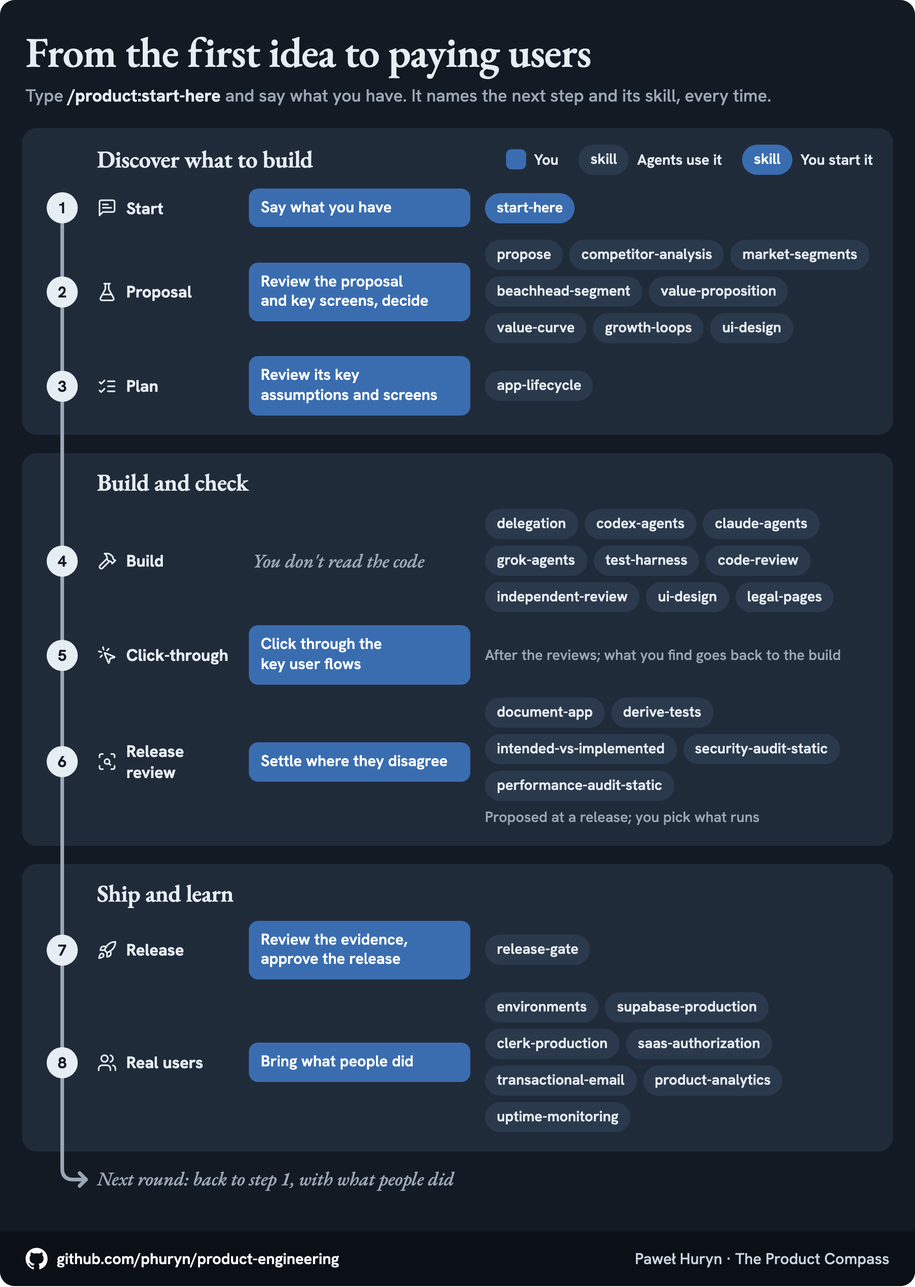
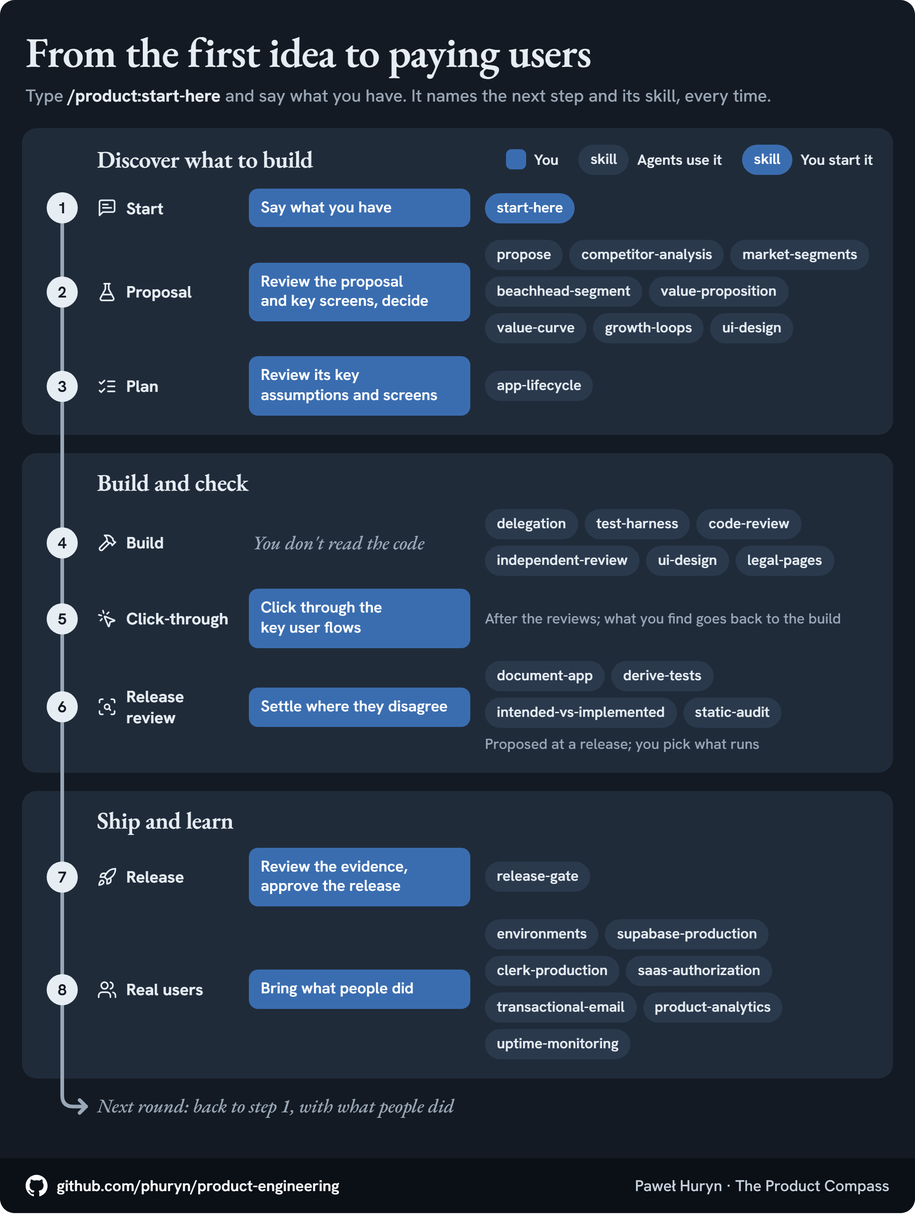
Name the merged skills' new homes everywhere; counts, costs and the graphic
README, WALKTHROUGH, AGENTS.md and the marketplace name delegation's
references, mcp-server's ChatGPT plugin reference and static-audit; the
counts move to 41 skills, 37 of them loading on their own. The listing's
cost is measured again: 2,538 tokens a turn in Claude Code, from 2,836
(the same prompt headless with and without the packs, two runs each).
The lifecycle graphic shows delegation and static-audit. sources.json points
the retired skills' records at their new homes. The validator now fails on
a retired name anywhere a reader follows one (receipts keep history).

diff --git a/tools/validate.py b/tools/validate.py
@@ -296,6 +296,26 @@ def check_counts():
                     errors.append(f"{rel}:{n}: says {m.group(1) or m.group(2)} skills; the collection has {want}{kind}")
 
 
+RETIRED = ("codex-agents", "claude-agents", "grok-agents", "gemini-agents", "chatgpt-plugin",
+           "security-audit-static", "performance-audit-static")
+
+
+def check_retired():
+    """A skill merged into another is named by its new home, never its old name (2026-11-26: seven skills
+    became references of `delegation`, `mcp-server` and `static-audit`). Receipts keep their history."""
+    old = re.compile(r"\b(" + "|".join(RETIRED) + r")\b(?!\.md)")
+    places = [*ROOT.glob("*/skills/**/*"), *ROOT.glob("*/README.md"), *ROOT.glob("*/.claude-plugin/plugin.json"),
+              *(ROOT / f for f in ("README.md", "AGENTS.md", "WALKTHROUGH.md", "CASE-STUDIES.md",
+                                   ".claude-plugin/marketplace.json"))]
+    for p in places:
+        if not p.is_file() or p.name == "receipts.md" or p.suffix not in (".md", ".py", ".json", ".yaml", ".yml"):
+            continue
+        for n, line in enumerate(p.read_text(encoding="utf-8").splitlines(), 1):
+            if m := old.search(line):
+                errors.append(f"{p.relative_to(ROOT).as_posix()}:{n}: names {m.group(1)!r}, a skill that was merged "
+                              "into another; name its new home (AGENTS.md, rule 4)")
+
+
 def check_tree():
     for p in ROOT.rglob("*"):
         if ".git" in p.parts:
@@ -419,6 +439,7 @@ def main():
     check_plugins()
     listed = check_listing()
     check_counts()
+    check_retired()
     check_tree()
     check_copies()
     check_plan_prompt_copies()

diff --git a/README.md b/README.md
@@ -4,7 +4,7 @@
 
 # Product Engineering
 
-47 agent skills from shipping three live products: decide what to build, build it with Claude Code or Codex, have a second model review it, release it.
+41 agent skills from shipping three live products: decide what to build, build it with Claude Code or Codex, have a second model review it, release it.
 
 **Lost at any point?** Type `/product:start-here` (Codex: `$product:start-here`) and say what you have. It tells you where the work stands and what's next. [Install](#install) first.
 
@@ -97,7 +97,7 @@ Or copy skill folders by hand into the folder your agent reads (`.agents/skills/
 
 <picture>
   <source media="(prefers-color-scheme: dark)" srcset="assets/lifecycle-dark.png">
-  <img src="assets/lifecycle-light.png" width="800" alt="The process in eight steps, in three phases (discover what to build, build and check, ship and learn), with what you do at each step and the skills agents use there. 1 Start: you say what you have; start-here, which you start. 2 Proposal: you review the proposal and its key screens, and decide; propose, competitor-analysis, market-segments, beachhead-segment, value-proposition, value-curve, growth-loops, ui-design. 3 Plan: you review its key assumptions and screens; app-lifecycle. 4 Build: you don't read the code; delegation, codex-agents, claude-agents, grok-agents, test-harness, code-review, independent-review, ui-design, legal-pages. 5 Click-through: after the reviews, you click through the key user flows; what you find goes back to the build. 6 Release review: you settle where they disagree; proposed at a release, you pick what runs; document-app, derive-tests, intended-vs-implemented, security-audit-static, performance-audit-static. 7 Release: you review the evidence and approve the release; release-gate. 8 Real users: you bring what people did; environments, supabase-production, clerk-production, saas-authorization, transactional-email, product-analytics, uptime-monitoring. Then the next round goes back to step 1.">
+  <img src="assets/lifecycle-light.png" width="800" alt="The process in eight steps, in three phases (discover what to build, build and check, ship and learn), with what you do at each step and the skills agents use there. 1 Start: you say what you have; start-here, which you start. 2 Proposal: you review the proposal and its key screens, and decide; propose, competitor-analysis, market-segments, beachhead-segment, value-proposition, value-curve, growth-loops, ui-design. 3 Plan: you review its key assumptions and screens; app-lifecycle. 4 Build: you don't read the code; delegation, test-harness, code-review, independent-review, ui-design, legal-pages. 5 Click-through: after the reviews, you click through the key user flows; what you find goes back to the build. 6 Release review: you settle where they disagree; proposed at a release, you pick what runs; document-app, derive-tests, intended-vs-implemented, static-audit. 7 Release: you review the evidence and approve the release; release-gate. 8 Real users: you bring what people did; environments, supabase-production, clerk-production, saas-authorization, transactional-email, product-analytics, uptime-monitoring. Then the next round goes back to step 1.">
 </picture>
 
 A change you can check in a minute skips to step 4. Each step with an example, from the first prompt to the next round: [WALKTHROUGH.md](WALKTHROUGH.md).
@@ -110,9 +110,9 @@ A change you can check in a minute skips to step 4. Each step with an example, f
 | **1. Start** | Say what you have: an idea, evidence from users, an agreed change, a bug or a release. | Read the request and the repository, and name the next step. | `start-here` |
 | **2. Proposal** | Look at the key screens first. Then read the research, make the open decisions, and accept or say what to change. | Research what you didn't share: the alternatives people use and, while it's open, the segment. Propose a direction with every claim's source, in one artifact: the jobs map, a high-fidelity screen per key job on sample data, and the open decisions, each with a recommendation. | `propose`, with `competitor-analysis`, `market-segments`, `beachhead-segment`, `value-proposition`, `value-curve`, `growth-loops`; `ui-design` for the screens |
 | **3. Plan**, complex changes only | Review its key assumptions (how it read your ask, where it disagrees with you, what it needs you to decide) and, when screens change, the new screens and choices in the artifact. Question the ones that look wrong, and say "build it". | Open with the key assumptions, then plan whatever the build needs: phases and releases, a rough size in builder hours, the files and modules to change, how to test it, the acceptance criteria. Screens that change and choices left open go in the artifact. | `start-here` carries the prompt; `app-lifecycle` for a SaaS |
-| **4. Build** | Pick when a stage offers options, such as a design direction. When the app needs accounts, keys or a domain, set them up as the agent walks you through: keys go where the agent asks, never into the chat, and production's only when it asks for them. You don't review the code line by line. | One session coordinates and another builds; no session reviews its own work. Tests and docs land with the change, and every fix with a test that failed before it. A fresh reviewer that never saw the build reviews each completed phase and every push that deploys, and again after fixing what a round found, until the bar holds. Use the reviewer your instructions name. By default the wrapper starts a fresh session with the first installed of Codex, Claude Code and Grok. Before the first stranger is asked for anything, the legal pages are drafted from the code for you to approve. | `delegation`, `codex-agents`, `claude-agents`, `grok-agents`, `test-harness`, `code-review`, `independent-review`, `ui-design`, `legal-pages` |
+| **4. Build** | Pick when a stage offers options, such as a design direction. When the app needs accounts, keys or a domain, set them up as the agent walks you through: keys go where the agent asks, never into the chat, and production's only when it asks for them. You don't review the code line by line. | One session coordinates and another builds; no session reviews its own work. Tests and docs land with the change, and every fix with a test that failed before it. A fresh reviewer that never saw the build reviews each completed phase and every push that deploys, and again after fixing what a round found, until the bar holds. Use the reviewer your instructions name. By default the wrapper starts a fresh session with the first installed of Codex, Claude Code and Grok. Before the first stranger is asked for anything, the legal pages are drafted from the code for you to approve. | `delegation` (with Codex, Claude Code and Grok as partners), `test-harness`, `code-review`, `independent-review`, `ui-design`, `legal-pages` |
 | **5. Click-through** | After the phase checks, click through the key user flows on a link. Allow 15 to 20 minutes for a mid-size app. You can ask for an early preview, and the agent suggests stopping to use the product once it does its key job. | After phase close and any closing deploy, send a link, actions and expected results. Use rendered checks for routine screen changes. Run the full visual checks for new or materially changed journeys and kit changes. Record unbuilt work and turn feedback into stages of the phase in flight. The next phase can start while you try the preview. | `start-here`, `release-gate` § Stage and phase close, `ui-design` |
-| **6. Release review** | Pick which deeper checks run, and decide where a doc, the coverage map and the code disagree, because a doc rewritten to match faulty code blesses the bug. | Before a release, propose the deeper checks: the docs and the legal pages against the code, the coverage map, security and performance. Run the ones you pick. | `document-app` and `derive-tests` in check mode; `intended-vs-implemented`, `security-audit-static`, `performance-audit-static` |
+| **6. Release review** | Pick which deeper checks run, and decide where a doc, the coverage map and the code disagree, because a doc rewritten to match faulty code blesses the bug. | Before a release, propose the deeper checks: the docs and the legal pages against the code, the coverage map, security and performance. Run the ones you pick. | `document-app` and `derive-tests` in check mode; `intended-vs-implemented`, `static-audit` |
 | **7. Release** | Check what the stage promised. Explore changed screens and shared surfaces, with a full sweep at go-live and for broad UI changes, then say go. Silence is not go. | Review everything unreleased again until a round finds nothing introduced above Low and nothing High or Critical of any age. Collect the evidence for every precondition, promote and verify that the reviewed build is serving. | `release-gate` |
 | **8. Real users** | Bring what people did: analytics, payments, support notes. | Run production: data, sign-in, payments, email, monitoring, and analytics that read back what people did without cookies. Weigh the new evidence against each hypothesis and propose the next round. | `product-analytics`, `environments`, `supabase-production`, `clerk-production`, `saas-authorization`, `transactional-email`, `uptime-monitoring`; `propose` |
 
@@ -144,16 +144,11 @@ Most start themselves when the work matches what they're for. You start four, ma
 - `test-harness`: Tests where green means something
 - `document-app`: System docs written from the code
 - `derive-tests`: The docs turned into a test-coverage map
-- `security-audit-static`: Security risks backed by evidence
-- `performance-audit-static`: N+1 queries, over-fetching, missing indexes
+- `static-audit`: Security risks backed by evidence; N+1 queries, over-fetching, missing indexes
 
 **agent-teams**: Other agents as partners
 
-- `delegation`: The brief, and what never delegates
-- `codex-agents`: Codex as a peer, builder or reviewer
-- `grok-agents`: Grok as a peer, builder or reviewer
-- `claude-agents`: Claude Code as a peer, builder or reviewer
-- `gemini-agents`: Gemini through Google's Antigravity CLI, only when you ask and agree first. Google doesn't support this on consumer plans (FAQ read 2026-11-13) and says it can lead to suspension
+- `delegation`: The brief, what never delegates, and Codex, Claude Code or Grok as a peer, builder or reviewer. Gemini, through Google's Antigravity CLI, only when you ask and agree first: Google doesn't support this on consumer plans (FAQ read 2026-11-13) and says it can lead to suspension
 
 **agent-harness**: A reliable agent setup, with you in the loop
 
@@ -176,8 +171,7 @@ Most start themselves when the work matches what they're for. You start four, ma
 - `legal-pages`: Terms, privacy policy and consent that match the code
 - `product-analytics`: Cookieless recordings and heatmaps your agents read back
 - `uptime-monitoring`: Knowing it's down before users do; Staygreen, made by the author, by default
-- `mcp-server`: A remote MCP server, right the first time
-- `chatgpt-plugin`: Through OpenAI's plugin review
+- `mcp-server`: A remote MCP server, right the first time, and a ChatGPT plugin through OpenAI's review
 - `embedded-agents-design`: What an agent in your app may do, and what waits for a click
 - `embedded-agents-messages-api`: Claude agents in your app, on the API
 - `embedded-agents-agent-sdk`: The same, on the Agent SDK
@@ -187,12 +181,12 @@ Most start themselves when the work matches what they're for. You start four, ma
 
 - `work-humanizer`: Edits AI-sounding text, or interviews you
 
-29 of the 47 skills were learned on real products built with Claude Code, Codex and Grok; 14 are established methods (the strategy frameworks in `product`, the documentation and review methods in `ai-shipping`); `product-analytics` rests on its vendors' docs and `work-humanizer` on a detector test; `gemini-agents` rests on one day of CLI runs and Google's documentation, and `embedded-agents-managed` on one day of live API runs and Anthropic's documentation. Each pack's `README.md` says more about every skill.
+25 of the 41 skills were learned on real products built with Claude Code, Codex and Grok; 13 are established methods (the strategy frameworks in `product`, the documentation and review methods in `ai-shipping`); `product-analytics` rests on its vendors' docs and `work-humanizer` on a detector test; `embedded-agents-managed` rests on one day of live API runs and Anthropic's documentation, and `delegation`'s Gemini reference on one day of CLI runs and Google's documentation. Each pack's `README.md` says more about every skill.
 
 <details>
 <summary>What the skills cost your agent</summary>
 
-Your agent always carries the descriptions of the 43 skills that start themselves: about 6,500 characters, about 2,800 tokens in Claude Code. A skill's full text loads only when it runs. `tools/validate.py` holds the descriptions to 6,600 characters in total and 300 each, because a crowded agent setup cuts descriptions short, and the cut falls on the words that say when to use a skill.
+Your agent always carries the descriptions of the 37 skills that start themselves: about 5,900 characters, about 2,500 tokens in Claude Code. A skill's full text loads only when it runs. `tools/validate.py` holds the descriptions to 6,600 characters in total and 300 each, because a crowded agent setup cuts descriptions short, and the cut falls on the words that say when to use a skill.
 
 </details>
 

diff --git a/WALKTHROUGH.md b/WALKTHROUGH.md
@@ -8,7 +8,7 @@ You don't need to remember any of this. `/product:start-here` names the next ste
 
 1. **Open your agent in a folder**: an empty one for a new idea (the agent runs `git init` there), or the repository of a product you already have.
 2. **Install the packs from that folder** ([Install](README.md#install)); in Claude Code the one-prompt install turns them on for that folder only; in Codex they install for your user, in every project. For this walkthrough: `product`, `ai-shipping`, `agent-teams` and `agent-harness`, plus `app-stack`: its `ui-design` and `uptime-monitoring` apply to any product with screens and a URL, and the rest mostly assumes a SaaS on Next.js, Supabase, Clerk and Netlify.
-3. **Optional, and worth it:** the Codex CLI as a second builder and peer (`codex-agents`) and the default reviewer (`independent-review`). The Grok CLI offers another model family (`--reviewer grok`), and `grok-agents` drives it in any role. Without Codex, the session you work in builds the change itself or briefs a Claude subagent. The review starts fresh with the first installed of Codex, Claude Code and Grok. With none of the three CLIs, use a fresh read-only session of your agent. The wrappers that drive them need Python 3.9 or later.
+3. **Optional, and worth it:** the Codex CLI as a second builder and peer (`delegation`, its Codex reference) and the default reviewer (`independent-review`). The Grok CLI offers another model family (`--reviewer grok`), and `delegation`'s Grok reference drives it in any role. Without Codex, the session you work in builds the change itself or briefs a Claude subagent. The review starts fresh with the first installed of Codex, Claude Code and Grok. With none of the three CLIs, use a fresh read-only session of your agent. The wrappers that drive them need Python 3.9 or later.
 
 ## 1. Say what you have
 
@@ -55,7 +55,7 @@ A stage that offers options stops until you pick, such as two design directions.
 
 By default, every stage lands end-to-end tests of its changed journeys. The coordinator runs touched and new tests, reads the diff and corrected docs, and briefly checks running screens. The read of the diff runs the router rows it matches; an edited test, gate script or instruction file needs its reason. Use phone and desktop widths and both themes when two exist; the builder never substitutes for this look. A stage needs no mandatory full gate, fresh review or docs check.
 
-One session coordinates. Another builds when one is available: Codex through `codex-agents`, or a Claude subagent briefed through `delegation`. No session reviews its own work. A fresh reviewer that never saw the build reviews each completed phase and every deploying push. It reviews again after each fix to what a round found, until the bar holds.
+One session coordinates. Another builds when one is available: Codex through `delegation`'s Codex reference, or a Claude subagent briefed through `delegation`. No session reviews its own work. A fresh reviewer that never saw the build reviews each completed phase and every deploying push. It reviews again after each fix to what a round found, until the bar holds.
 
 The coordinator chooses phases containing related stages, sized for a few hours of builder turns and one state you can try. Two to four usually fit a first version; the plan message gives the split, cadence and rough builder-hour estimate. For the SaaS stages, 0–3, 4–7 and 8–9 are a suggested grouping. Stage 3 keeps its sample-data click-through done-when; the first deploy closes the next phase, and go-live reviews the whole product.
 
@@ -87,7 +87,7 @@ Before a release, the agent proposes the deeper checks, and you pick what runs. 
 
 1. **Are the docs right?** Say "check our docs against the code": `document-app` in check mode, with `intended-vs-implemented` reading the docs and the legal pages as intent.
 2. **Are the tests right?** Say "is our coverage map current?": `derive-tests` in check mode.
-3. **Security and performance?** Say "audit this release": `security-audit-static` and `performance-audit-static`, on the release's changes.
+3. **Security and performance?** Say "audit this release for security and performance": `static-audit` runs both on the release's changes.
 
 The check modes and the audits only report. Where a doc, a test and the code disagree about what the product should do, you decide which one moves, because a doc rewritten to match faulty code blesses the bug. At the release, "ship it" also reviews everything unreleased again, round after round until one finds nothing introduced above low and nothing high or critical of any age. Older high and critical findings are fixed too.
 
@@ -154,7 +154,7 @@ A product in use plus new evidence means `propose` runs again. It adds each date
 
 A typical setup:
 - **Claude Code coordinates.**
-- **Codex builds** what is worth handing off (`codex-agents`). The test is size: if the brief would be nearly as long as the change, the coordinator writes the change itself.
+- **Codex builds** what is worth handing off (`delegation`, its Codex reference). The test is size: if the brief would be nearly as long as the change, the coordinator writes the change itself.
 - **A fresh Codex session reviews.** Apply `independent-review` for the brief, scope and fallbacks.
 
 The coordinator needs the skills, and so does a builder whose brief names one: install `app-stack` in Codex too, so a brief for screens or an MCP server names `$app-stack:ui-design` or `$app-stack:mcp-server`. The product keeps no copy of either. The reviewer starts without them on purpose. If you also work in Codex directly, install the other packs there too, since each agent reads skills from its own place. `agent-instructions` shows how to route to a skill from the product's agent instructions.

diff --git a/AGENTS.md b/AGENTS.md
@@ -46,7 +46,7 @@ Many skills began as copies or extractions from other repositories. `sources.jso
 ## Releasing
 
 - **The bar** (owner, `2026-10-29`; tightened `2026-11-05`: "no medium or high or we repeat the loop"): a release goes out once an independent review round finds no INTRODUCED finding of Medium or above and no High or Critical of any age (the `independent-review` skill's stopping rule); it then goes out without asking for a go (owner, `2026-11-07`: "Once you review, go live without my go"; until then each release waited for one). No release waits for the owner's go, now or later, and consulting the owner first is optional (owner, `2026-11-21`: "You have my permission to release without asking for my go now and in the future. Consulting me is optional. This is not an app, but a skills collection."). A release that adds or changes what the skills do is a minor version; one that only corrects them is a patch. README wording needs no round and no release (owner, `2026-11-03`). Static security and performance audits run only when the owner asks.
-- **Who builds:** a change of a few edits is written in-session. Anything larger goes to Codex on GPT-6.2 Sol at `xhigh` (the `codex-agents` skill, with `--model gpt-6.2-sol --sandbox workspace-write`), never Astra; the session agent reads the diff, runs the validator and commits it (owner, `2026-11-05`, model updated `2026-11-18`).
+- **Who builds:** a change of a few edits is written in-session. Anything larger goes to Codex on GPT-6.2 Sol at `xhigh` (the `delegation` skill's Codex reference, with `--model gpt-6.2-sol --sandbox workspace-write`), never Astra; the session agent reads the diff, runs the validator and commits it (owner, `2026-11-05`, model updated `2026-11-18`).
 - **A round** is the `independent-review` skill's loop. Copy `tools/review-brief.md`, fill in only its `## The subject` (the range, its log, what the commits change, and any owner decision the reviewer must not report as a finding), then run `python ai-shipping/skills/independent-review/scripts/review.py --brief <brief> --cwd . --subject "<last reviewed commit>..HEAD" --out <report> --max-turns 120 --reviewer codex --model gpt-6.2-sol < /dev/null` in the background. A round takes about ten minutes. This starts a fresh Codex session at the wrapper's default `xhigh` effort. When Codex is out of usage (exit 3), rerun without asking, replacing those two flags with `--reviewer claude --model opus`. This starts a fresh Claude Code session. Repository rounds use only these two reviewers (owner, `2026-11-18`, "Not Grok"). Number rounds in the one sequence this repository has used since round 1. Check every finding against the files, its severity and how often its trigger happens included, before changing anything (`independent-review` § Triage): for a case almost nobody meets, state the limit instead of adding a fix (owner, `2026-11-18`). Fix each confirmed finding the bar names by the least text, commit, push, and make that fix the next round's subject; repeat until a round meets the bar. Lows go to the owner, not into the loop.
 - **`main` is what installs read.** `.claude-plugin/marketplace.json` names each pack as `./<pack>` with no ref, so Claude Code serves `main`'s head (observed `2026-11-07`), and a push to `main` is a release. Work for the next release goes on the `next` branch, and its rounds review it there. At the go, `main` fast-forwards to the reviewed commit, and the tag names that commit. (`2026-11-07`: two commits pushed after v1.6.1's tag reached a live Q&A product's update before their review had finished.)
 - **The release:** `git tag -a vX.Y.Z -m vX.Y.Z <commit>`, `git push origin vX.Y.Z`, then `gh release create vX.Y.Z --title vX.Y.Z --notes-file <notes> --verify-tag`. The notes say what changed for someone who already has the packs installed, and what they should do about it.

diff --git a/rejected.md b/rejected.md
@@ -90,7 +90,7 @@ Each entry: the date, the request, **rejected** or **deferred**, the reason, the
 
 - **2026-11-02 · rejected.**
 - **Request:** from the same feedback (`2026-11-01`): review mode's tools (Read, Grep, Glob) can't run `git diff`, so it could allow `Bash(git log:*)`, `Bash(git diff:*)` and `Bash(git show:*)` itself.
-- **Reason:** an allow rule matches by prefix, and `git diff --output=<file>` writes, so a reviewer given it is no longer read-only. A review of commits already has a path: the review wrapper with `--reviewer claude` (then `grok-agents`', `independent-review`'s since `2026-11-02`) writes the range to a file the same fresh session reads. `claude-agents` now says so where review mode is described.
+- **Reason:** an allow rule matches by prefix, and `git diff --output=<file>` writes, so a reviewer given it is no longer read-only. A review of commits already has a path: the review wrapper with `--reviewer claude` (then `grok-agents`', `independent-review`'s since `2026-11-02`) writes the range to a file the same fresh session reads. `claude-agents` said so where review mode is described; since `2026-11-26` that text is the `delegation` skill's Claude Code reference.
 - **Evidence:** `git diff --output` is documented to write the diff to a file instead of stdout.
 - **Decided by:** the agent, on the owner's "implement the rest according to your judgement" (`2026-11-02`).
 
